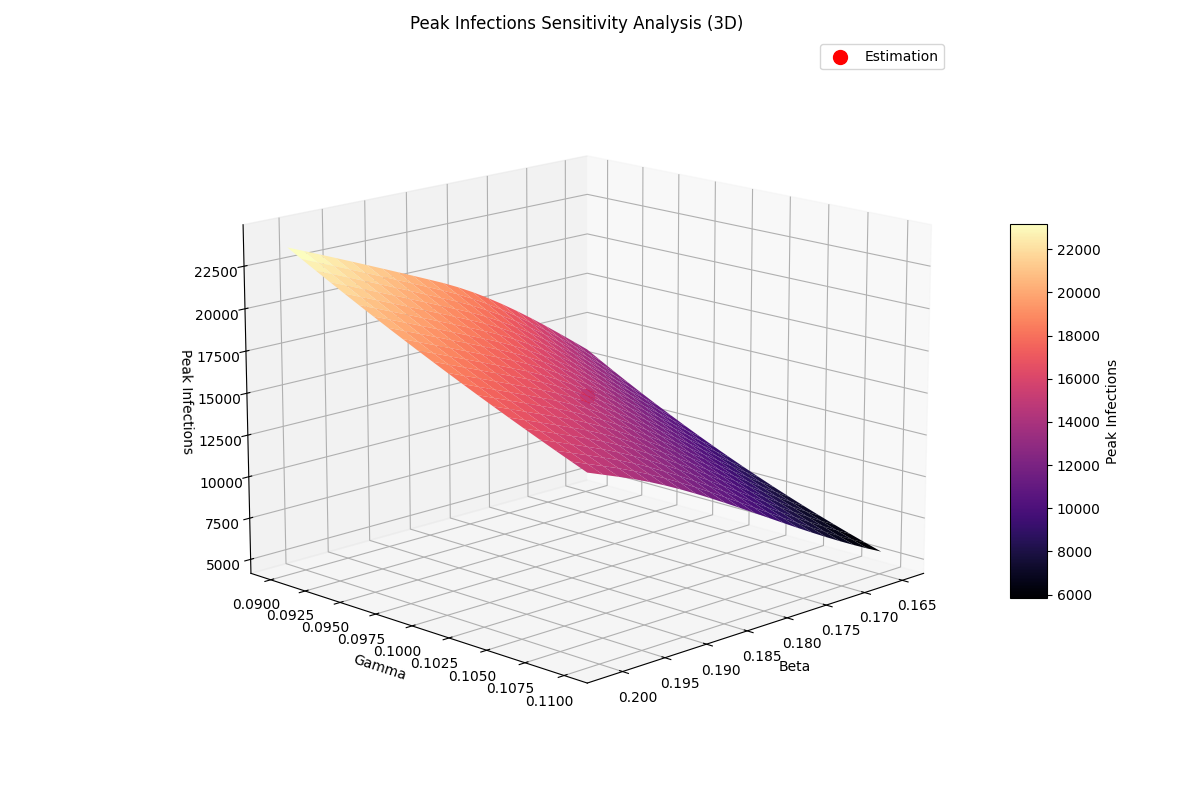
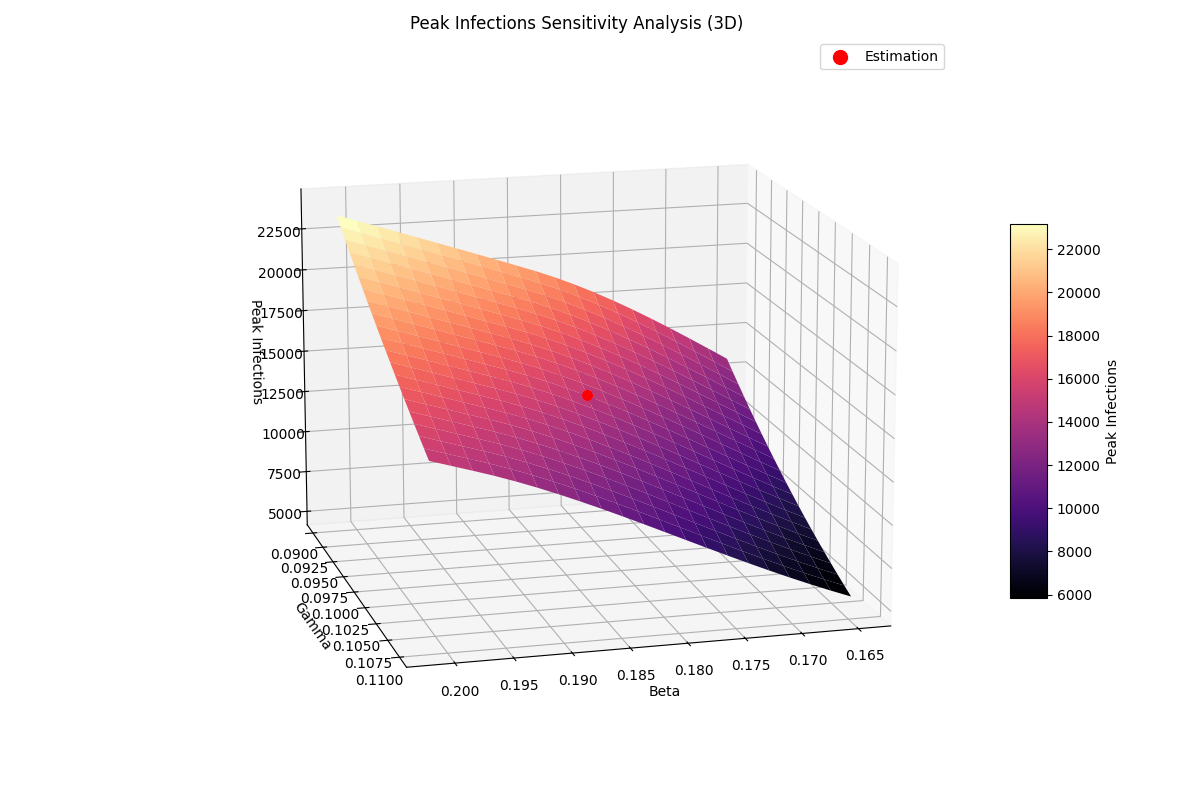
final changes

Changed region(s): [[0.1542, 0.25, 0.7708, 0.875]]

diff --git a/sensitivity.py b/sensitivity.py
@@ -45,7 +45,7 @@ def sir_sensitivity(duration):
             _, I, _ = forward_euler_sir(S_init, I_init, R_init, B[i,j], G[i,j], dt, duration) * scale
             Z[i,j] = np.max(I)
 
-    plot_3d(beta_range, gamma_range, Z, beta, gamma, "diagrams/sensitivity_sir.png")
+    plot_3d(Z, beta, gamma, "diagrams/sensitivity_sir.png")
 
 def seir_sensitivity(duration):
     E_init = 0.0008 * N_init
@@ -64,11 +64,11 @@ def seir_sensitivity(duration):
             _, _, I, _ = forward_euler_seir(S_init, E_init, I_init, R_init, B[i,j], sigma, G[i,j], dt, duration) * scale
             Z[i,j] = np.max(I)
 
-    plot_3d(beta_range, gamma_range, Z, beta, gamma, "diagrams/sensitivity_seir.png")
+    plot_3d(Z, beta, gamma, "diagrams/sensitivity_seir.png")
 
 
-def plot_3d(beta_range, gamma_range, Z, beta, gamma, path):
-    B, G = np.meshgrid(beta_range, gamma_range)
+def plot_3d(Z, beta, gamma, path):
+    B, G, _, beta_range, gamma_range = init_ranges(beta, gamma)
 
     fig = plt.figure(figsize=(12, 8))
     ax = fig.add_subplot(111, projection="3d")
@@ -83,11 +83,29 @@ def plot_3d(beta_range, gamma_range, Z, beta, gamma, path):
     beta_idx = np.argmin(np.abs(beta_range - beta))
     gamma_idx = np.argmin(np.abs(gamma_range - gamma))
     peak = Z[gamma_idx, beta_idx]
-    print(peak)
+
+    # Gamma sensitivity
+    peak_gamma_high = Z[gamma_idx + 1, beta_idx]
+    peak_gamma_low = Z[gamma_idx - 1, beta_idx]
+    diff_gamma_high = (peak_gamma_high - peak) / peak * 100
+    diff_gamma_low = (peak_gamma_low - peak) / peak * 100
+
+    # Beta sensitivity
+    peak_beta_high = Z[gamma_idx, beta_idx + 1]
+    peak_beta_low = Z[gamma_idx, beta_idx - 1]
+    diff_beta_high = (peak_beta_high - peak) / peak * 100
+    diff_beta_low = (peak_beta_low - peak) / peak * 100
+    latex_table = f"""\\textbf{{Parameter}} & \\textbf{{+1\\% deviation}} & \\textbf{{-1\\% deviation}} \\\\ \\hline
+    $\\gamma$ & {diff_gamma_high:+.2f}\\% & {diff_gamma_low:+.2f}\\% \\\\
+    $\\beta$ & {diff_beta_high:+.2f}\\% & {diff_beta_low:+.2f}\\% \\\\ \\hline"""
+
+    print(latex_table)
+
+
     scat = ax.scatter(beta, gamma, peak, color="red", s=100, marker="o", label="Estimation", alpha=1.0, zorder=999)
     scat.set_depthshade(False)
     ax.legend()
-    ax.view_init(elev=15, azim=45)
+    ax.view_init(elev=15, azim=75)
 
     plt.tight_layout()
     plt.savefig(path)
@@ -104,7 +122,7 @@ def sensitivity_meridonia():
     beta = 0.420
     gamma = 0.265
 
-    step = 0.01
+    # step = 0.01
 
     B, G, Z, beta_range, gamma_range = init_ranges(beta, gamma)
     B, G = np.meshgrid(beta_range, gamma_range)
@@ -116,7 +134,7 @@ def sensitivity_meridonia():
             _, I, _ = forward_euler_sir(S_init, I_init, R_init, B[i, j], G[i, j], dt, 365)
             Z[i, j] = np.max(I)
 
-    plot_3d(beta_range, gamma_range, Z, beta, gamma, "diagrams/sensitivity_meridonia.png")
+    plot_3d(Z, beta, gamma, "diagrams/sensitivity_meridonia.png")
 
 
 if __name__ == "__main__":